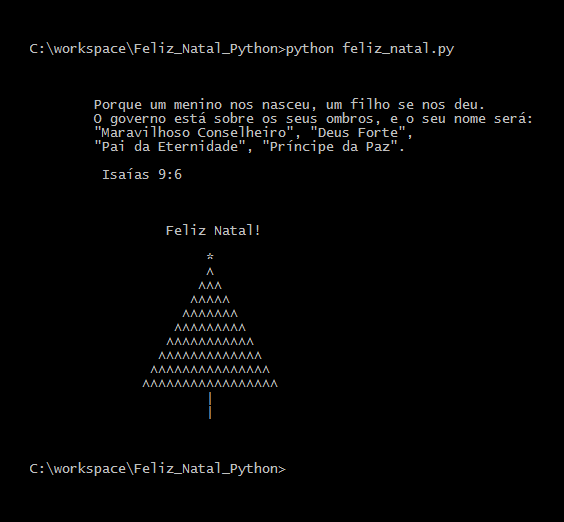
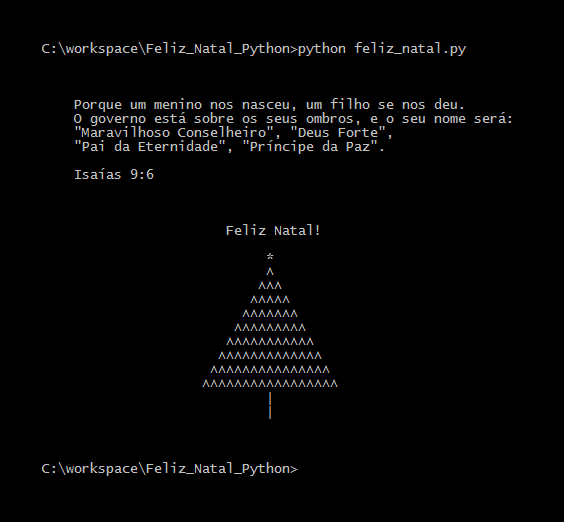
refatoracao do codigo python e atualizacao do output(png)

diff --git a/feliz_natal.py b/feliz_natal.py
@@ -4,23 +4,24 @@ n = 0
 
 isaias_9_6 = '''
 
-	Porque um menino nos nasceu, um filho se nos deu.
-	O governo está sobre os seus ombros, e o seu nome será:
-	"Maravilhoso Conselheiro", "Deus Forte", 
-	"Pai da Eternidade", "Príncipe da Paz".
+    Porque um menino nos nasceu, um filho se nos deu.
+    O governo está sobre os seus ombros, e o seu nome será:
+    "Maravilhoso Conselheiro", "Deus Forte", 
+    "Pai da Eternidade", "Príncipe da Paz".
 
-	 Isaías 9:6
-	 
-             '''
-			 
-print(f'\n {isaias_9_6}')
+    Isaías 9:6
+
+    '''
+
+print(f'\n{isaias_9_6}')
 
 while n < 10:
 	if n == 0:
-		print('\n                 Feliz Natal!\n\n                      *')
+		print('\n', (21*' '), f'Feliz Natal!\n\n', (26*' '), '*')
 	else:
-		print('            ',((b * (10-n)) + ((n + (n-1))) * a))
-		
+		print(18*' ', ((b * (10-n)) + ((n + (n-1))) * a))
+
 	n +=1
-	
-print('                      |\n                      |\n\n')
+
+print((27*' '),f'|\n',(26*' '),'|\n\n')
+
